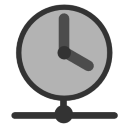
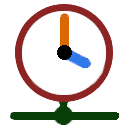
:arrow_up: Updating add-on chrony to f38ac7f

diff --git a/README.md b/README.md
@@ -1296,10 +1296,10 @@ SOFTWARE.
 [zerotier-armhf-shield]: https://img.shields.io/badge/armhf-yes-green.svg
 [zerotier-armv7-shield]: https://img.shields.io/badge/armv7-yes-green.svg
 [zerotier-i386-shield]: https://img.shields.io/badge/i386-yes-green.svg
-[addon-chrony]: https://github.com/hassio-addons/addon-chrony/tree/d8a14a9
-[addon-doc-chrony]: https://github.com/hassio-addons/addon-chrony/blob/d8a14a9/README.md
+[addon-chrony]: https://github.com/hassio-addons/addon-chrony/tree/f38ac7f
+[addon-doc-chrony]: https://github.com/hassio-addons/addon-chrony/blob/f38ac7f/README.md
 [chrony-issue]: https://github.com/hassio-addons/addon-chrony/issues
-[chrony-version-shield]: https://img.shields.io/badge/version-d8a14a9-blue.svg
+[chrony-version-shield]: https://img.shields.io/badge/version-f38ac7f-blue.svg
 [chrony-pulls-shield]: https://img.shields.io/docker/pulls/hassioaddons/chrony-armhf.svg
 [chrony-aarch64-shield]: https://img.shields.io/badge/aarch64-yes-green.svg
 [chrony-amd64-shield]: https://img.shields.io/badge/amd64-yes-green.svg

diff --git a/chrony/README.md b/chrony/README.md
@@ -40,5 +40,5 @@ If you are more interested in stable releases of our add-ons:
 [forum]: https://community.home-assistant.io/?u=frenck
 [maintenance-shield]: https://img.shields.io/maintenance/yes/2020.svg
 [project-stage-shield]: https://img.shields.io/badge/project%20stage-production%20ready-brightgreen.svg
-[release-shield]: https://img.shields.io/badge/version-d8a14a9-blue.svg
-[release]: https://github.com/hassio-addons/addon-chrony/tree/d8a14a9
+[release-shield]: https://img.shields.io/badge/version-f38ac7f-blue.svg
+[release]: https://github.com/hassio-addons/addon-chrony/tree/f38ac7f

diff --git a/chrony/CHANGELOG.md b/chrony/CHANGELOG.md
@@ -1,3 +1,10 @@
 # Changelog since v1.1.1
+- 💄New colored icon and improved logo (#25)
+
+* New colored icon and improved logo
+
+Created a new colored version of the icon and logo to improve the design and to add support for Home Assistant "Running" and "Stopped" (greyed out) add-on state.
+
+* Logo 2.1 
 - ⬆Update base image to v8.0.5 
 - ⬆ Update base to v8.0.3 
